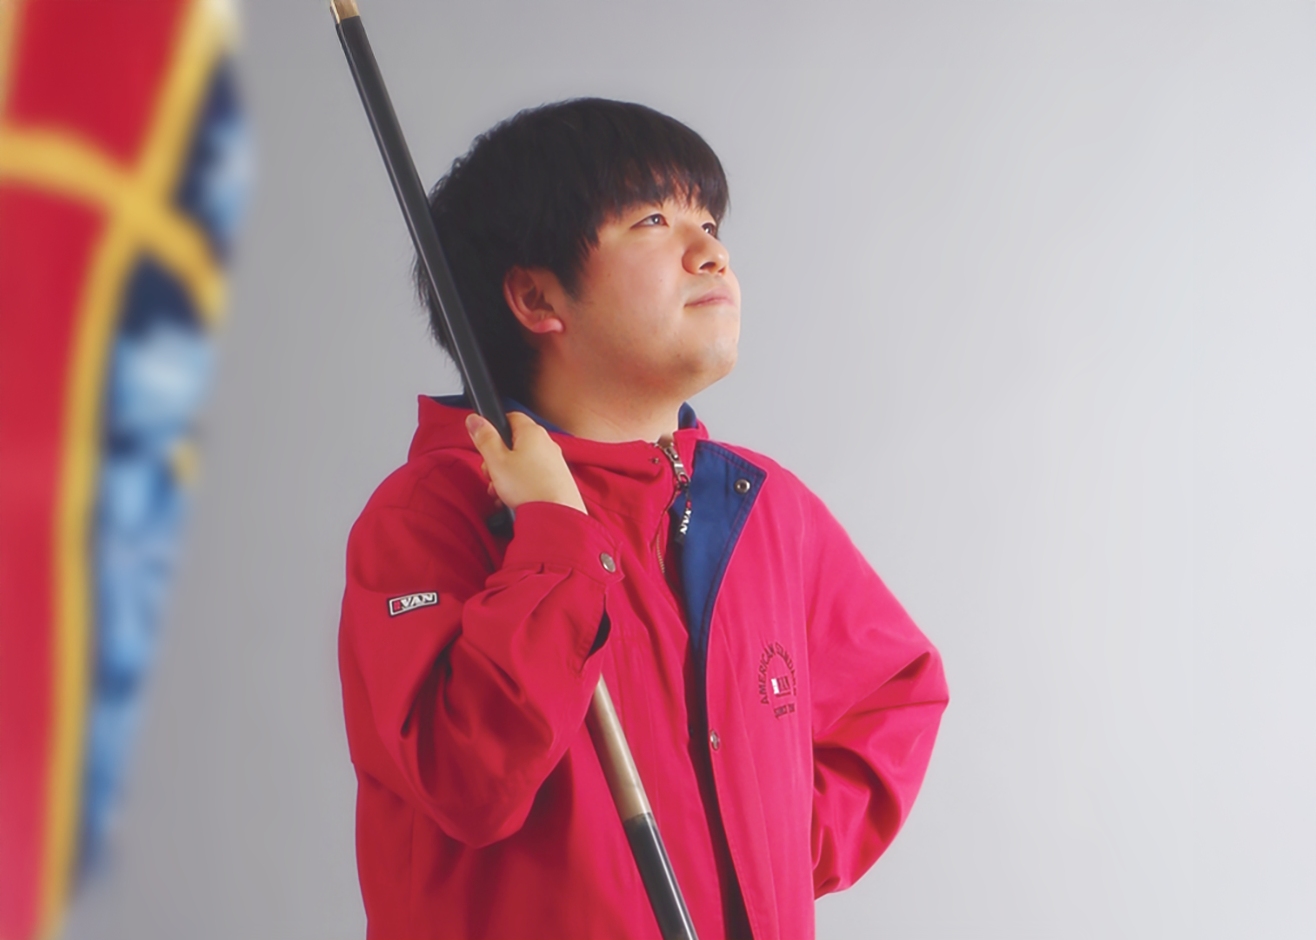
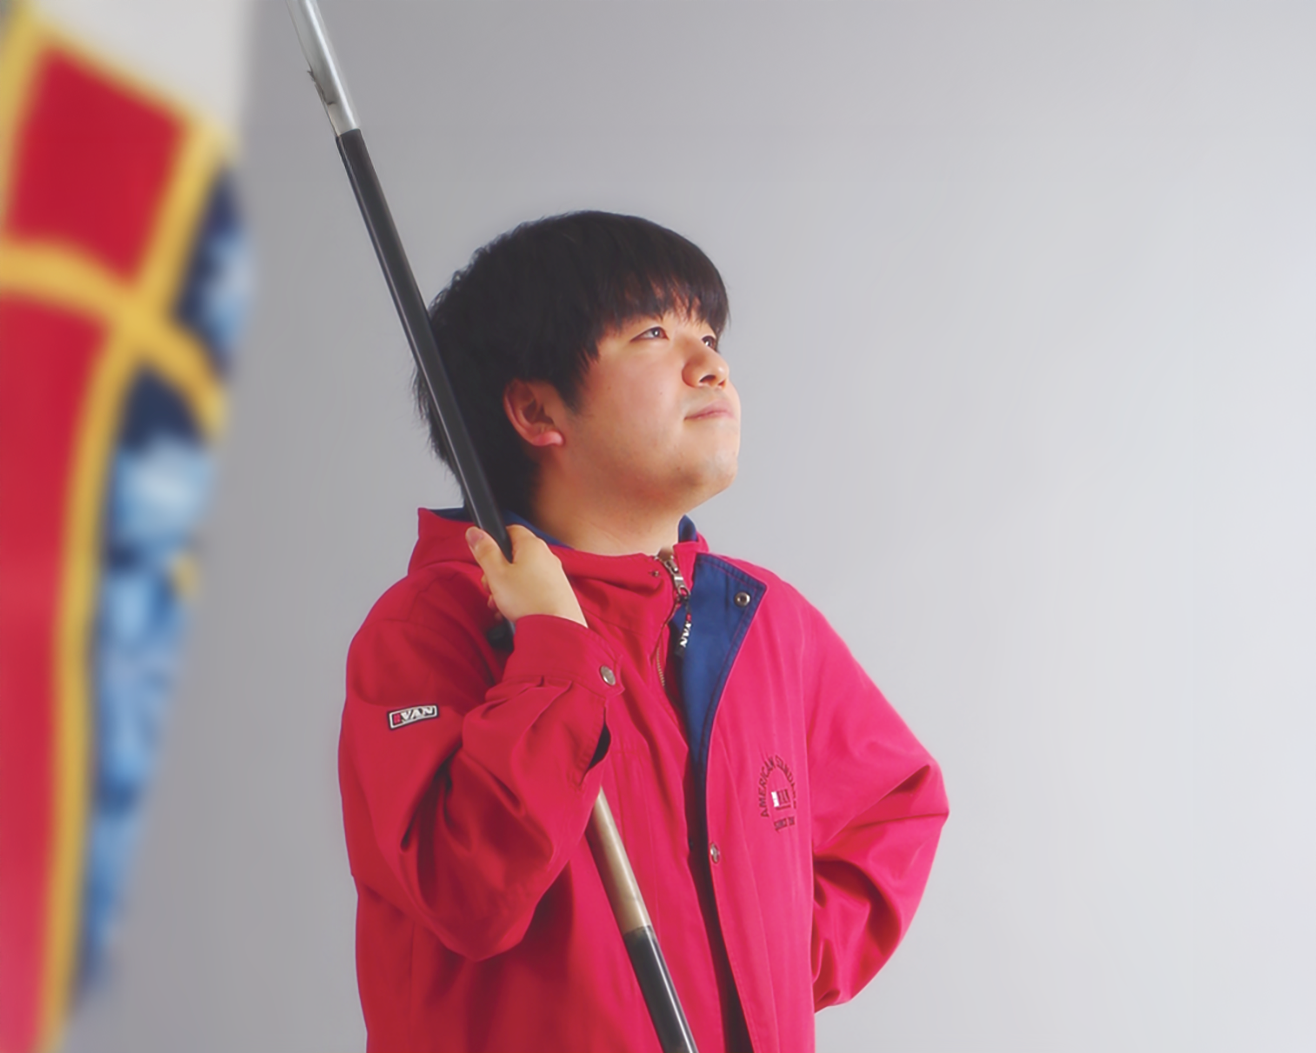
Add files via upload

diff --git a/project-1.html b/project-1.html
@@ -130,48 +130,21 @@
         <!-- Output -->
         <section class="process-section">
             <h2 class="section-title">Research & Insight</h2>
-            <p style="margin-bottom: 30px;">デプスインタビュー分析の結果、ユーザーは一律ではなく、<strong>「意欲（Awareness）」と「実行力（Behavior）」の2軸で4つのセグメント</strong>に分類できることが分かりました。</p>
+
+            <div class="text-block" style="margin-top: 60px; margin-bottom: 30px;">
+                <h3>
+                    Key Insight: <br class="sp-br">挫折の原因は「共通」ではない
+                </h3>
+                <p>デプスインタビュー分析の結果、ユーザーは一律ではなく、<strong>「意欲（Awareness）」と「実行力（Behavior）」の2軸で4つのセグメント</strong>に分類できることが分かりました。</p>
+            </div>
+
+            <!-- 画像2カラムエリア -->
             <div class="gallery-grid cols-2">
+                <!-- 画像2カラム(拡大) -->
                 <div class="gallery-item">
-                    <h4 class="gallery-head">Before: 課題のあった画面</h4>
-                    <div class="image-container">
-                        <img src="img/project-1/purpose.png" alt="The purpose" onerror="this.style.display='none'">
-                    </div>
-                    <p class="gallery-caption">
-                        情報量が多く、ユーザーが次に何をすべきか迷いやすい状態でした。
-                    </p>
-                </div>
-                <div class="gallery-item">
-                    <h4 class="gallery-head">After: 改善後の画面</h4>
-                    <div class="image-container">
-                        <img src="img/project-1/survey-overview.png" alt="Survey overview" onerror="this.style.display='none'">
-                    </div>
-                    <p class="gallery-caption">
-                        <span class="highlight">情報の優先度</span>を整理し、アクションボタンを明確化することで迷いを解消しました。
-                    </p>
-                </div>
-                <div class="gallery-item">
-                    <h4 class="gallery-head">Before: 課題のあった画面</h4>
-                    <div class="image-container">
-                        <img src="img/project-1/distribution-map.png" alt="Distribution map" onerror="this.style.display='none'">
-                    </div>
-                    <p class="gallery-caption">
-                        情報量が多く、ユーザーが次に何をすべきか迷いやすい状態でした。
-                    </p>
-                </div>
-                <div class="gallery-item">
-                    <h4 class="gallery-head">After: 改善後の画面</h4>
-                    <div class="image-container">
-                        <img src="img/project-1/interview.png" alt="interview" onerror="this.style.display='none'">
-                    </div>
-                    <p class="gallery-caption">
-                        <span class="highlight">情報の優先度</span>を整理し、アクションボタンを明確化することで迷いを解消しました。
-                    </p>
-                </div>
-                <div class="gallery-item">
-                    <h4 class="gallery-head">質問項目</h4>
+                    <h4 class="gallery-head">アンケート項目</h4>
                     <div class="image-container js-zoomable">
-                        <img src="img/project-1/interview-items.png" alt="interview" onerror="this.style.display='none'">
+                        <img src="img/project-1/interview-questionnaire.webp" alt="interview" onerror="this.style.display='none'">
                         <div class="zoom-hint">
                             <svg width="24" height="24" viewBox="0 0 24 24" fill="none" stroke="#fff" stroke-width="2">
                                 <circle cx="11" cy="11" r="8"></circle>
@@ -181,9 +154,66 @@
                             </svg>
                         </div>
                     </div>
-                    <p class="gallery-caption">
+                    <!-- <p class="gallery-caption">
                         <span class="highlight">情報の優先度</span>を整理し、アクションボタンを明確化することで迷いを解消しました。
-                    </p>
+                    </p> -->
+                </div>
+                <!-- 画像2カラム(拡大) -->
+                <div class="gallery-item">
+                    <h4 class="gallery-head">インタビュー質問項目</h4>
+                    <div class="image-container js-zoomable">
+                        <img src="img/project-1/interview-items.webp" alt="interview" onerror="this.style.display='none'">
+                        <div class="zoom-hint">
+                            <svg width="24" height="24" viewBox="0 0 24 24" fill="none" stroke="#fff" stroke-width="2">
+                                <circle cx="11" cy="11" r="8"></circle>
+                                <line x1="21" y1="21" x2="16.65" y2="16.65"></line>
+                                <line x1="11" y1="8" x2="11" y2="14"></line>
+                                <line x1="8" y1="11" x2="14" y2="11"></line>
+                            </svg>
+                        </div>
+                    </div>
+                    <!-- <p class="gallery-caption">
+                        <span class="highlight">情報の優先度</span>を整理し、アクションボタンを明確化することで迷いを解消しました。
+                    </p> -->
+                </div>
+            </div>
+
+            <div class="text-block" style="margin-top: 60px; margin-bottom: 30px;">
+                <h3>
+                    Key Insight: <br class="sp-br">挫折の原因は「共通」ではない
+                </h3>
+                <p><strong>高意欲層</strong>には「頑張れ」という励ましが逆効果（プレッシャー）になり、逆に<strong>低意欲層</strong>には「健康の重要性」を説いても響かないことが分かりました。セグメントごとに異なる「言葉」が必要です。</p>
+            </div>
+
+            <!-- 画像2カラムエリア -->
+            <div class="gallery-grid cols-2">
+                <!-- 画像2カラム -->
+                <div class="gallery-item">
+                    <h4 class="gallery-head">目的</h4>
+                    <div class="image-container">
+                        <img src="img/project-1/purpose.png" alt="The purpose" onerror="this.style.display='none'">
+                    </div>
+                </div>
+                <!-- 画像2カラム -->
+                <div class="gallery-item">
+                    <h4 class="gallery-head">調査概要</h4>
+                    <div class="image-container">
+                        <img src="img/project-1/survey-overview.png" alt="Survey overview" onerror="this.style.display='none'">
+                    </div>
+                </div>
+                <!-- 画像2カラム -->
+                <div class="gallery-item">
+                    <h4 class="gallery-head">サンプル分布</h4>
+                    <div class="image-container">
+                        <img src="img/project-1/distribution-map.png" alt="Distribution map" onerror="this.style.display='none'">
+                    </div>
+                </div>
+                <!-- 画像2カラム -->
+                <div class="gallery-item">
+                    <h4 class="gallery-head">インタビュー内容</h4>
+                    <div class="image-container">
+                        <img src="img/project-1/interview.png" alt="interview" onerror="this.style.display='none'">
+                    </div>
                 </div>
             </div>
             <div class="quadrant-matrix">

diff --git a/css/common.css b/css/common.css
@@ -1543,3 +1543,66 @@ footer p {
 .lightbox-close:hover {
     background: rgba(0, 0, 0, 0.8); /* より濃い黒にして強調 */
 }
+
+/* =========================================
+   Dropdown Menu Links (with Arrow Animation)
+   ========================================= */
+
+/* ドロップダウン内のリンク */
+.dropdown-menu a {
+    /* レイアウト調整 */
+    display: flex;
+    justify-content: space-between; /* 文字と矢印を左右に離す */
+    align-items: center;
+    
+    padding: 12px 20px; /* クリックしやすいように広げる */
+    color: #ccc;
+    font-size: 0.9rem;
+    text-decoration: none;
+    border-radius: 8px;
+    transition: background 0.2s, color 0.2s;
+}
+
+/* =========================================
+   Dropdown Menu Links (Arrow Update)
+   ========================================= */
+
+/* ドロップダウン内のリンク */
+.dropdown-menu a {
+    display: flex;
+    justify-content: space-between;
+    align-items: center;
+    
+    padding: 12px 20px;
+    color: #ccc;
+    font-size: 0.9rem;
+    text-decoration: none;
+    border-radius: 8px;
+    transition: background 0.2s, color 0.2s;
+}
+
+/* 矢印アイコン（indexページと同じ「→」を使用） */
+.dropdown-menu a::after {
+    content: '→';
+    font-weight: bold;
+    font-size: 1.0rem; /* 文字より少し大きくして存在感を出す */
+    line-height: 1;
+    
+    /* 初期状態 */
+    margin-left: 10px;
+    color: var(--text-muted); /* 通常時はグレー */
+    
+    /* アニメーション設定 */
+    transition: transform 0.3s cubic-bezier(0.25, 1, 0.5, 1), color 0.3s;
+}
+
+/* --- ホバー時の挙動 --- */
+.dropdown-menu a:hover {
+    background-color: rgba(255, 255, 255, 0.1);
+    color: #fff; /* リンク文字を白く */
+}
+
+.dropdown-menu a:hover::after {
+    color: var(--accent-color); /* 矢印をテーマカラー（ライム/ピンク/青）に */
+    transform: translateX(5px); /* 右に少しスライド */
+}

diff --git a/project-2.html b/project-2.html
@@ -93,7 +93,7 @@
                 <div class="bento-card span-2">
                     <h3>Team</h3>
                     <h4>Experience Design Dept.</h4>
-                    <span style="font-size: 0.9rem; color: #888; display:block; margin-top:5px;">HT: 髙橋育美, 藤田紗季<br>MEM: 赤石大樹</span>
+                    <span style="font-size: 0.9rem; color: #888; display:block; margin-top:5px;">HT: 髙橋育美, 藤田絵美<br>MEM: 赤石大樹</span>
                 </div>
                 <!-- 時期/期間 -->
                 <div class="bento-card">
